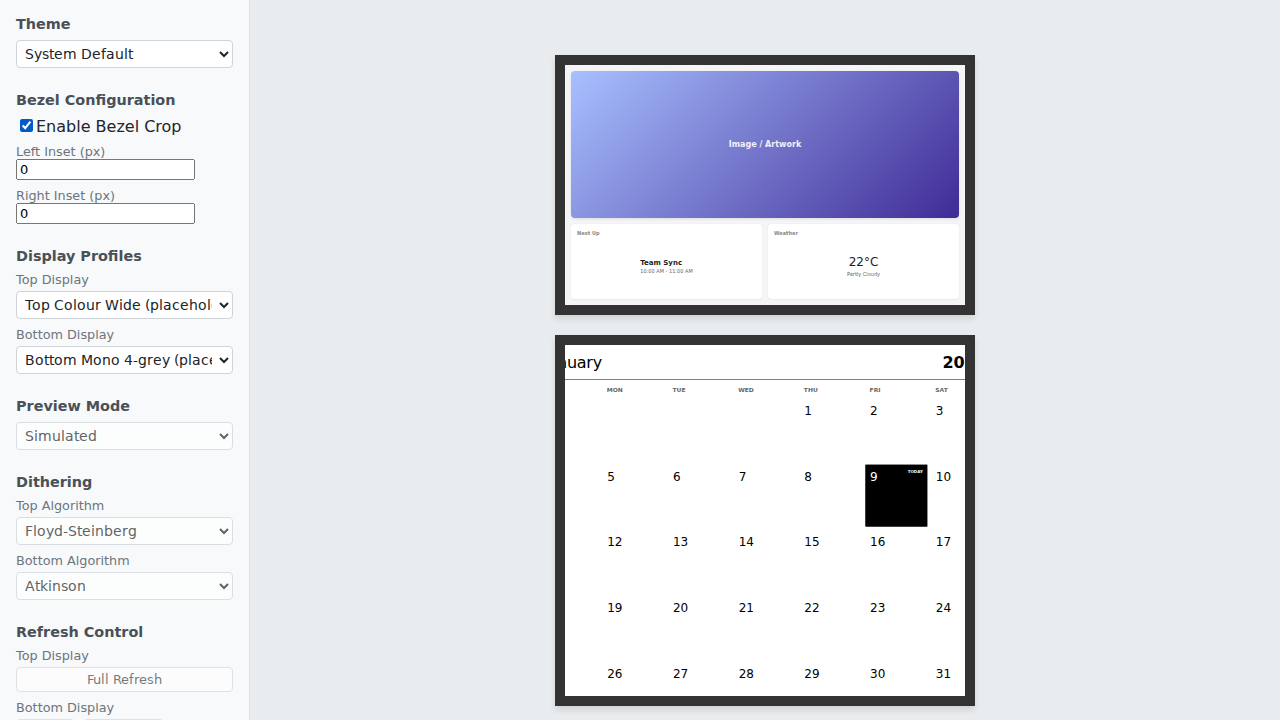
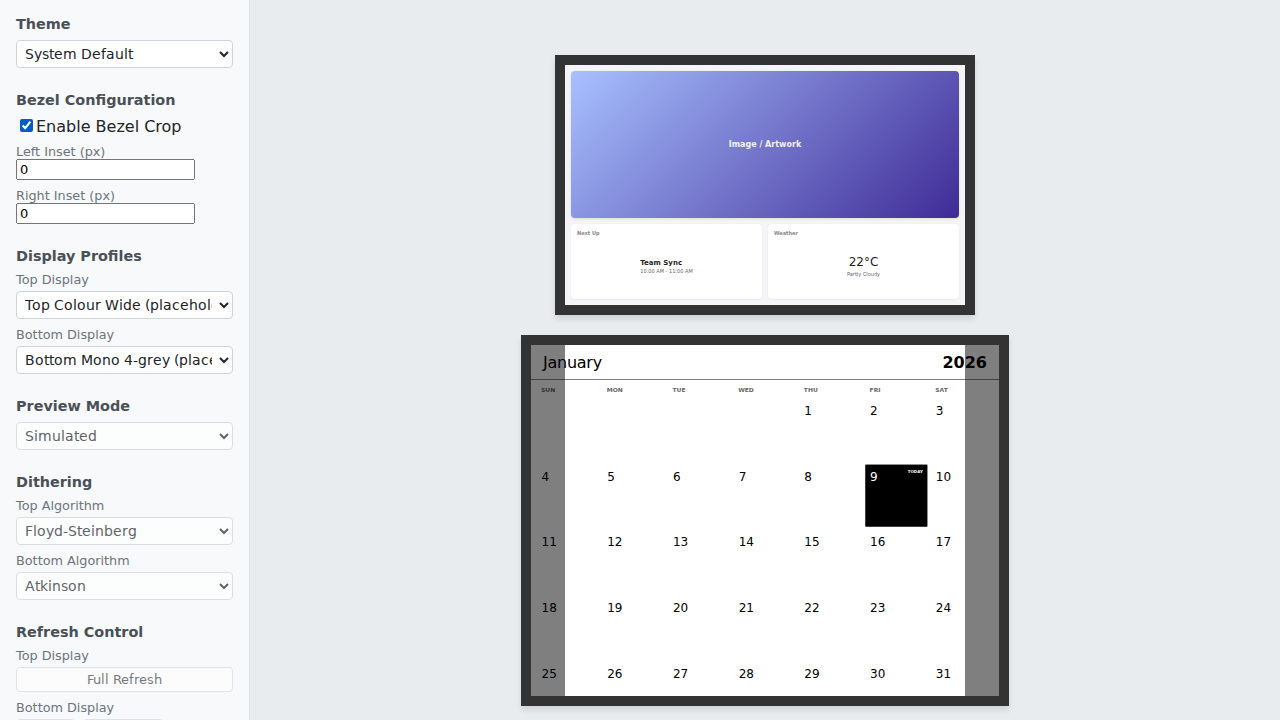
Implement bezel crop visualization and layout adjustment
Updated the simulator's bezel crop feature to use semi-transparent overlays instead of hard masking, allowing the full surface to be visible. Modified `BottomSurface` to accept crop insets and adjust its layout (padding) accordingly, ensuring content remains centered in the visible area. Fixed linting and accessibility issues.

Changed region(s): [[0.75, 0.4583, 0.8125, 0.9778], [0.4062, 0.4583, 0.4688, 1.0]]

diff --git a/apps/simulator-web/src/components/PreviewArea/PreviewArea.tsx b/apps/simulator-web/src/components/PreviewArea/PreviewArea.tsx
@@ -30,23 +30,15 @@ export const PreviewArea: React.FC<PreviewAreaProps> = ({
 	const SCALE = 0.25;
 
 	// Calculate crop
-	let bottomVisibleWidth = bottomProfile.resolution.width;
-	let bottomVisibleOffset = 0;
+	const horizontalDiff = Math.max(0, bottomProfile.resolution.width - topProfile.resolution.width);
+	const baseCrop = horizontalDiff / 2;
+
+	let leftCrop = 0;
+	let rightCrop = 0;
 
 	if (bezelCrop) {
-		const horizontalDiff = Math.max(
-			0,
-			bottomProfile.resolution.width - topProfile.resolution.width,
-		);
-		const baseCrop = horizontalDiff / 2;
-		const finalLeftCrop = baseCrop + bezelInsetLeft;
-		const finalRightCrop = baseCrop + bezelInsetRight;
-
-		bottomVisibleWidth = Math.max(
-			0,
-			bottomProfile.resolution.width - finalLeftCrop - finalRightCrop,
-		);
-		bottomVisibleOffset = -finalLeftCrop;
+		leftCrop = Math.max(0, baseCrop + bezelInsetLeft);
+		rightCrop = Math.max(0, baseCrop + bezelInsetRight);
 	}
 
 	return (
@@ -77,10 +69,9 @@ export const PreviewArea: React.FC<PreviewAreaProps> = ({
 				<div
 					className={styles.bottomDisplay}
 					style={{
-						width: bottomVisibleWidth * SCALE,
+						width: bottomProfile.resolution.width * SCALE,
 						height: bottomProfile.resolution.height * SCALE,
 						position: 'relative',
-						overflow: 'hidden',
 					}}
 				>
 					<div
@@ -89,7 +80,7 @@ export const PreviewArea: React.FC<PreviewAreaProps> = ({
 							transformOrigin: 'top left',
 							position: 'absolute',
 							top: 0,
-							left: bottomVisibleOffset * SCALE,
+							left: 0,
 						}}
 					>
 						<BottomSurface
@@ -97,8 +88,40 @@ export const PreviewArea: React.FC<PreviewAreaProps> = ({
 							selectedDate={selectedDate}
 							onDateSelect={onDateSelect}
 							monthAnchor={monthAnchor}
+							cropLeft={leftCrop}
+							cropRight={rightCrop}
 						/>
 					</div>
+
+					{/* Bezel Overlays */}
+					{bezelCrop && (
+						<>
+							<div
+								style={{
+									position: 'absolute',
+									top: 0,
+									bottom: 0,
+									left: 0,
+									width: leftCrop * SCALE,
+									backgroundColor: 'rgba(0, 0, 0, 0.5)',
+									zIndex: 10,
+									pointerEvents: 'none',
+								}}
+							/>
+							<div
+								style={{
+									position: 'absolute',
+									top: 0,
+									bottom: 0,
+									right: 0,
+									width: rightCrop * SCALE,
+									backgroundColor: 'rgba(0, 0, 0, 0.5)',
+									zIndex: 10,
+									pointerEvents: 'none',
+								}}
+							/>
+						</>
+					)}
 				</div>
 			</div>
 		</div>

diff --git a/packages/surfaces/src/components/BottomSurface/BottomSurface.tsx b/packages/surfaces/src/components/BottomSurface/BottomSurface.tsx
@@ -10,6 +10,8 @@ export interface BottomSurfaceProps {
 	onDateSelect: (date: string) => void;
 	monthAnchor: Date; // The month to display
 	today?: Date;
+	cropLeft?: number;
+	cropRight?: number;
 }
 
 const WEEKDAYS = ['Sun', 'Mon', 'Tue', 'Wed', 'Thu', 'Fri', 'Sat'];
@@ -20,6 +22,8 @@ export const BottomSurface: React.FC<BottomSurfaceProps> = ({
 	onDateSelect,
 	monthAnchor,
 	today = new Date(),
+	cropLeft = 0,
+	cropRight = 0,
 }) => {
 	const year = monthAnchor.getFullYear();
 	const month = monthAnchor.getMonth(); // 0-11
@@ -56,7 +60,15 @@ export const BottomSurface: React.FC<BottomSurfaceProps> = ({
 	}
 
 	return (
-		<PixelSurfaceFrame profile={profile} className={styles.container}>
+		<PixelSurfaceFrame
+			profile={profile}
+			className={styles.container}
+			style={{
+				paddingLeft: cropLeft,
+				paddingRight: cropRight,
+				boxSizing: 'border-box',
+			}}
+		>
 			<div className={styles.header}>
 				<div className={styles.monthTitle}>{monthName}</div>
 				<div className={styles.yearTitle}>{year}</div>
